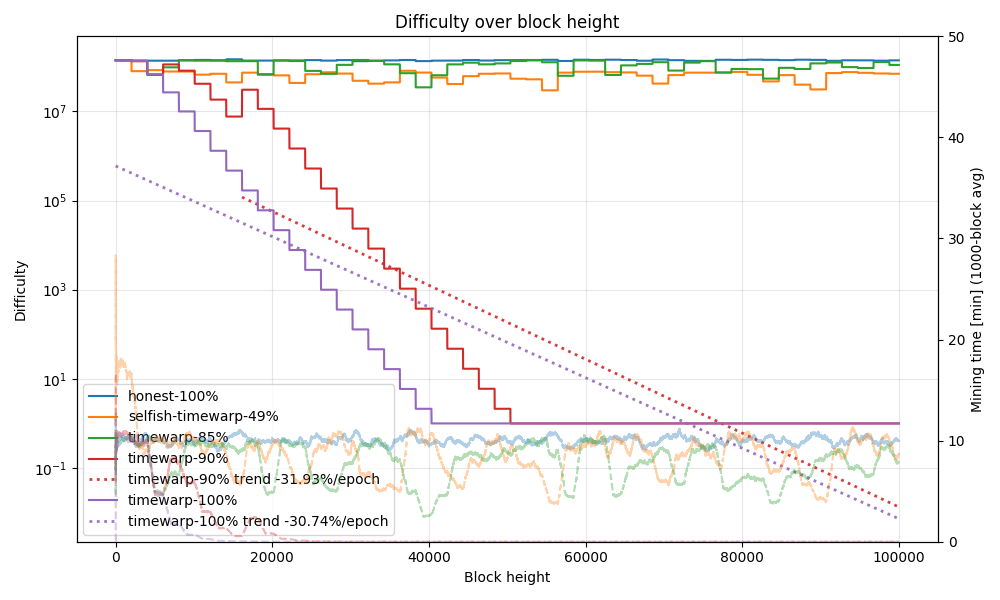
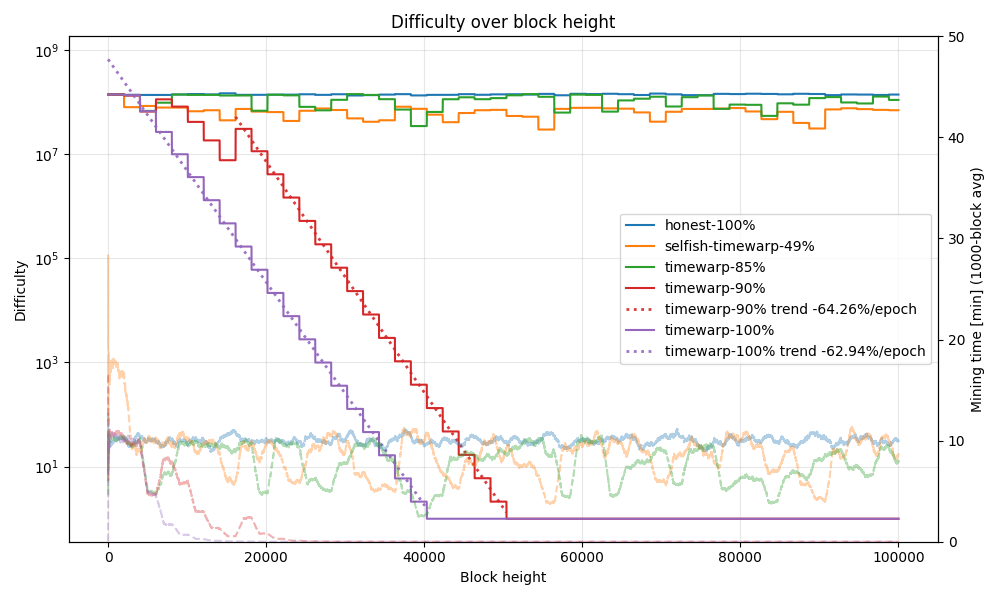
update profile

diff --git a/experiments/timewarp_attack_scenarios/scripts/plot_timewarp_scenarios.py b/experiments/timewarp_attack_scenarios/scripts/plot_timewarp_scenarios.py
@@ -185,6 +185,8 @@ def _find_descending_step_segments(
     """
     difficulty が「増えない(diff<=0)」状態が連続する区間のうち、
     「下がる段差(diff<0)」が min_steps 回以上含まれる区間を返す。
+    ただし、区間末尾で最小値に張り付く横ばい（例: difficulty=1 の張り付き）は
+    回帰対象から除外する。
 
     戻り値: (start_idx, end_idx, step_count)
       - start_idx/end_idx は difficulty のインデックス位置（0-based, 両端含む）
@@ -220,7 +222,14 @@ def _find_descending_step_segments(
             # diffs[k] corresponds to transition y[k] -> y[k+1]
             start_idx = run_start
             end_idx = run_end + 1
-            segments.append((start_idx, end_idx, step_count))
+            # 回帰は「下降している区間のみ」を対象にしたいので、
+            # 区間末尾で最小値に張り付く横ばい（difficulty=1 付近）を落とす。
+            # 浮動小数誤差を考慮して isclose を使う。
+            floor = y[end_idx]
+            while end_idx > start_idx and np.isclose(y[end_idx], floor, rtol=0.0, atol=1e-12):
+                end_idx -= 1
+            if end_idx > start_idx:
+                segments.append((start_idx, end_idx, step_count))
 
         i = j
 

diff --git a/experiments/timewarp_fix_hashrate/scripts/run_fixed_hashrate_experiments.py b/experiments/timewarp_fix_hashrate/scripts/run_fixed_hashrate_experiments.py
@@ -22,6 +22,8 @@ from experiments.utils import (
     write_profile_json,
 )
 
+TOTAL_HASHRATE = 1_000_000_000_000
+
 
 def ensure_profile(attacker_hashrate: int, base_dir: Path) -> Path:
     """
@@ -31,7 +33,8 @@ def ensure_profile(attacker_hashrate: int, base_dir: Path) -> Path:
     if not (0 <= attacker_hashrate <= 100):
         raise ValueError("--hashrate は 0〜100 の整数で指定してください")
 
-    defender_hashrate = 100 - attacker_hashrate
+    attacker_hashrate_value = (TOTAL_HASHRATE * attacker_hashrate) // 100
+    defender_hashrate_value = TOTAL_HASHRATE - attacker_hashrate_value
 
     profile_dir = base_dir / "profiles"
     profile_dir.mkdir(parents=True, exist_ok=True)
@@ -41,11 +44,11 @@ def ensure_profile(attacker_hashrate: int, base_dir: Path) -> Path:
     profile = {
         "nodes": [
             {
-                "hashrate": attacker_hashrate,
+                "hashrate": attacker_hashrate_value,
                 "strategy": {"type": "timewarp"},
             },
             {
-                "hashrate": defender_hashrate,
+                "hashrate": defender_hashrate_value,
                 "strategy": {"type": "honest"},
             },
         ]

diff --git a/experiments/timewarp_fix_hashrate/README.md b/experiments/timewarp_fix_hashrate/README.md
@@ -12,8 +12,7 @@ uv sync  # まだであれば
 ### 使い方
 
 ```sh
-cd experiments/timewarp_fix_hashrate
-uv run scripts/run_fixed_hashrate_experiments.py \
+uv run experiments/timewarp_fix_hashrate/scripts/run_fixed_hashrate_experiments.py \
   --runs 10 \
   --hashrate 90 \
   --end-round 80000 \
